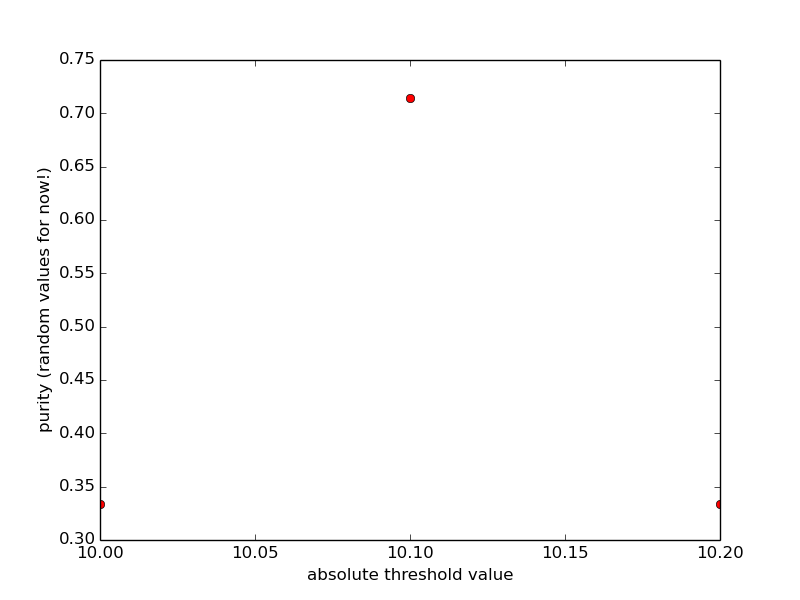
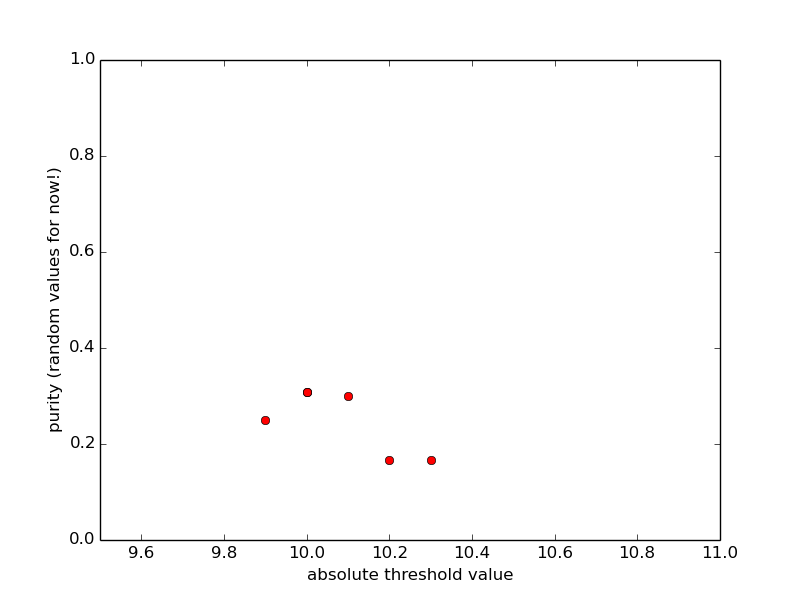
fixed some bugs, added ebc

diff --git a/src/eventLoop.py b/src/eventLoop.py
@@ -2,19 +2,12 @@ import sys
 from peakfinder import finder
 from burnchecker import burncheck
 
-print "This is the top level analysis macro"
-
-#absolute_threshold_list = [9.8, 9.9, 10, 10.1, 10.2]
-#for index,eventLoop in enumerate(absolute_threshold_list):
-#	print index, " ", eventLoop
-#sys.exit()
-
 def Loop(partition_list, module_list, method, cut):
 	# peaks returned from the various algs/cuts
 	total_peaks_to_check = []
 	
 	for i in range(len(partition_list)):
-		if partition_list[i] != "EBA": continue
+		#if partition_list[i] != "EBA": continue
 		for j in range(len(module_list)):
 			if module_list[j] == 16: continue
 			#print "\t\tLooping over module: ", j, "..."
@@ -23,7 +16,7 @@ def Loop(partition_list, module_list, method, cut):
 									1,						# which method
 									cut)					# which cuts
 			#print "\t\t\tThis peak module has ", len(peaks_to_check), "peaks to check"
-			if(peaks_to_check): total_peaks_to_check.append([j,peaks_to_check])
+			if(peaks_to_check): total_peaks_to_check.append([j,peaks_to_check,i])
 			#total_peaks_to_check.append(peaks_to_check)
 	
 	# total list of peaks!
@@ -33,70 +26,27 @@ def Loop(partition_list, module_list, method, cut):
 		total += len(peaks[1])
 	print "Total number of peaks to check: ", total
 	
-	#is_signal = [0]*total
-	signal = 0
+	found_run = 0
+	was_burnt = 0
+	saveables = 0
 	for i,peaks in enumerate(total_peaks_to_check):
-		#print burncheck(peaks[0], peaks[1])
-		#is_signal[i] = burncheck(peaks[0], peaks[1])
-		if burncheck(peaks[0], peaks[1]): signal += 1
+		if peaks[2] == 0:
+			print "\tPowercycle EBC: ", peaks[0]+1 
+		if peaks[2] == 1:
+			print "\tPowercycle EBA: ", peaks[0]+1 
+		checked = burncheck(peaks[0], peaks[1], peaks[2])
+		for j,signal_array in enumerate(checked):
+			if signal_array[0] == 1: 
+				#print "\t\t..found a MB run!"
+				found_run += 1
+			if signal_array[1] == 1:
+				#print "\t\t..was burnt!!"
+				was_burnt += 1
+			if signal_array[2] == 1:
+				#print "\t\t..could have been saved!!!"
+				saveables += 1
 	
-	#purity = 1.*signal / total
-	#return purity
-	return [signal, total]
+	return [found_run, was_burnt, saveables, total]
 
 
-
-
-
-
-
-
-#partition_list = ["EBA", "EBC", "LBA", "LBC"]
-#module_list = range(65)
-#module = "42"
-#
-#config = [	[1, 10],  		# (absolute thresholding, 10amps)
-#			[2, 3.5]	] 	# (zscore, standard deviation)
-#
-#
-## Configuration print out
-#
-#
-## Current Loop print out
-#print "\tLooping over the currents..."
-#
-## peaks returned from the various algs/cuts
-#total_peaks_to_check = []
-#
-#for i in range(len(partition_list)):
-#	if partition_list[i] != "EBA": continue
-#	for j in range(len(module_list)):
-#		if module_list[j] == 16: continue
-#		print "\t\tLooping over module: ", j, "..."
-#		peaks_to_check = finder(partition_list[i], 		# which partition
-#								str(module_list[j]), 	# which module
-#								1,						# which method
-#								10)						# which cuts
-#		print "\t\t\tThis peak module has ", len(peaks_to_check), "peaks to check"
-#		if(peaks_to_check): total_peaks_to_check.append([j,peaks_to_check])
-#		#total_peaks_to_check.append(peaks_to_check)
-#
-## total list of peaks!
-## organized as follows: [module#, [list of datetimes w/peaks]
-#total = 0
-#for peaks in total_peaks_to_check:
-#	total += len(peaks[1])
-#print "Total number of peaks to check: ", total
-#
-#is_signal = [0]*total
-#signal = 0
-#for i,peaks in enumerate(total_peaks_to_check):
-#	#print burncheck(peaks[0], peaks[1])
-#	is_signal[i] = burncheck(peaks[0], peaks[1])
-#	if burncheck(peaks[0], peaks[1]): signal += 1
-#
-## Plotting!
-#print "\n\n\n\nPlotting stuff goes here!!"
-#purity = 1.*signal / total
-#print signal 
-#print purity
+# End

diff --git a/src/burnchecker.py b/src/burnchecker.py
@@ -3,16 +3,29 @@ import os
 import random
 
 #def burncheck(timestamps):
-def burncheck(module, peaklist):
-	#print peaklist
+def burncheck(module, peaklist, partition):
+	#print "\t\t\t",peaklist
+	checked = []
 	for peak in peaklist:
 		run = time2run(peak)	
-		#print "MBLookup(",module,", ",run,")"
-		return MBLookup(module, run)
+		if not run:	
+			#print "\t\t\t\tdidn't find a runnumber, return 0"
+			#return 0
+			checked.append([0,0,0])
+		else:		
+			#print "\t\t\t\tfound a run#: ", run
+			#print "MBLookup(",module,", ",run,")"
+			#return MBLookup(module, run)
+			checked.append([1,0,0])
+	return checked
 
 
 
 def time2run(timestamp):
+	# cleaning previous atl run query
+	if os.path.isdir("data"):
+		os.system("rm -r data")
+	# trying to grab a run 
 	time_string = timestamp.strftime('%d.%m.%Y_%H:%M:%S')
 	cmd = "AtlRunQuery.py 'f t {0}-{1} / sh r'".format(time_string, time_string)
 	os.system(cmd + "&> /dev/null")
@@ -26,18 +39,19 @@ def time2run(timestamp):
 					run_string = run_line_values[1]
 					
 	except IOError:
-		print "Whoa there! QueryResults.txt isn't there??? AtlRunQuery might not have found anything??"  
+		# there was no run given this timestamp. return nada
+		#print "Whoa there! QueryResults.txt isn't there??? AtlRunQuery might not have found anything??"  
+		pass
 	
 	return run_string
 
-def MBLookup(module, runnumber):
-	is_signal = random.randint(0,1)
-	#print "\tModule#: ", module, " run#: ", runnumber
-	if is_signal: 
-		#print "\t\tThere was a burnout here!"
-		return 1 
-	else: 
-		#print "\t\tThere was not a burnout here.."
-		return 0 
+def MBLookup(module, runnumber, partition):
+	return 1
+	#is_signal = random.randint(0,1)
+	##print "\tModule#: ", module, " run#: ", runnumber
+	#if is_signal: 
+	#	return 1 
+	#else: 
+	#	return 0 
 
 #end

diff --git a/src/plotter.py b/src/plotter.py
@@ -6,13 +6,13 @@ from eventLoop import Loop
 print "can you ever have too many different files"
 
 # Parameters
-Partitions = ["EBA"]
+Partitions = ["EBC", "EBA"]
 Modules = range(1,65)
 Method = 1
 
 # Absolute Threshold Study
-absolute_threshold_list = [10, 10.1, 10.2]
-#absolute_threshold_list = [10, 10.1]
+absolute_threshold_list = [9.9, 10, 10, 10.1, 10.2, 10.3]
+#absolute_threshold_list = [10]
 
 total_list = []
 signal_list = []
@@ -20,20 +20,24 @@ purity_list = []
 
 for index, Cut in enumerate(absolute_threshold_list): 
 	results = Loop(Partitions, Modules, Method, Cut)
-	total_list.append(results[1])
+	total_list.append(results[3])
 	signal_list.append(results[0])
-	purity_list.append(1.*results[0] / results[1])
+	purity_list.append(1.*results[0] / results[3])
 	#purity_list.append(Loop(Partitions, Modules, Method, Cut))
 
-print total_list
-print absolute_threshold_list
+print "Total number of candidate PWC: ", total_list
+print "Total number of overcurrents with a MB run: ", signal_list
+#print absolute_threshold_list
 
-plt.plot(absolute_threshold_list, purity_list, 'ro')
 
-plt.ylabel('purity (random values for now!)')
-plt.xlabel('absolute threshold value')
-
-#plt.set_ylim([0,1])
-#plt.set_xlim([9,11])
-
+# Purity Plot
+purity_fig = plt.figure()
+ax = purity_fig.add_subplot(111)
+ax.set_xlim([9.5,11])
+ax.set_ylim([0,1])
+ax.plot(absolute_threshold_list, purity_list, 'ro')
+ax.set_ylabel('purity (random values for now!)')
+ax.set_xlabel('absolute threshold value')
 plt.savefig('show/purity.png')
+
+# End
